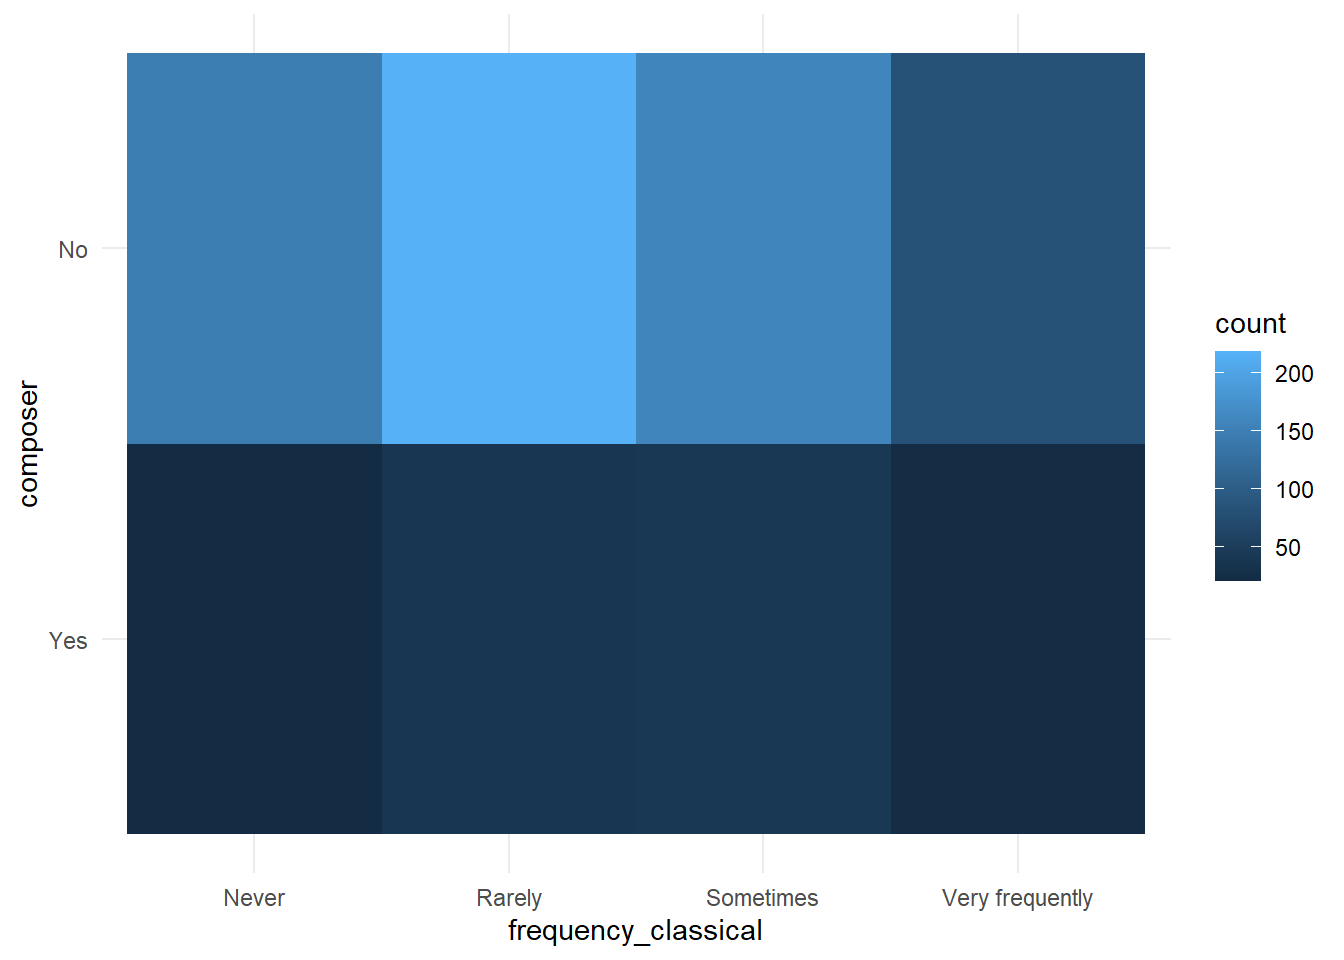
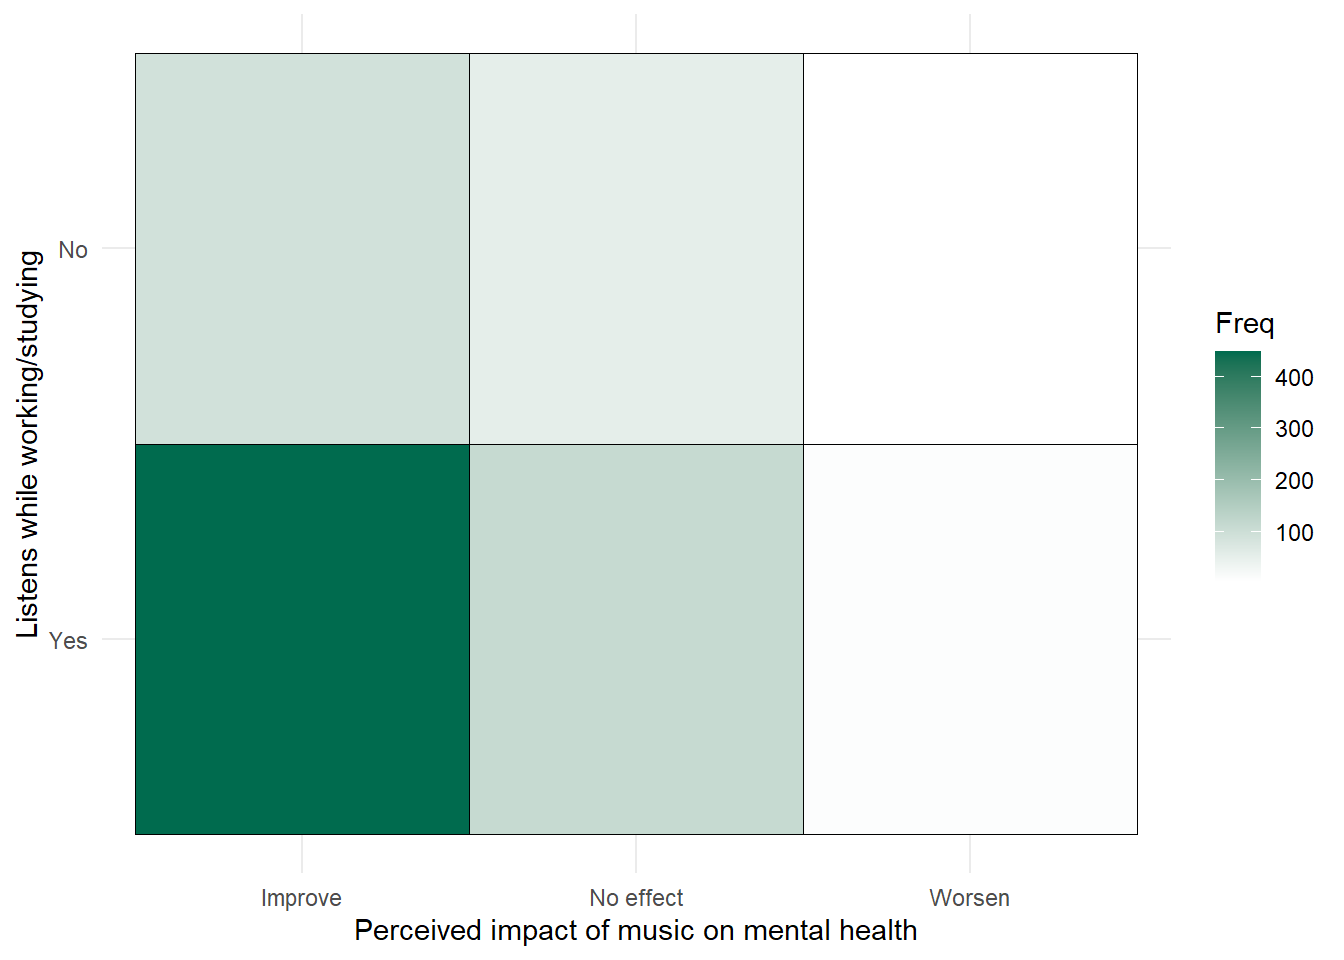
add heatmap

diff --git a/docs/Static_EDA.html b/docs/Static_EDA.html
@@ -354,7 +354,7 @@ permissions*                736   1 1.00e+00       1.00</code></pre>
 <h2 class="anchored" data-anchor-id="numeric-eda">Numeric EDA</h2>
 <section id="contingency-tables" class="level3">
 <h3 class="anchored" data-anchor-id="contingency-tables">Contingency Tables</h3>
-<p>Use tidy summary methods with results stored in tibbles. This will simplify reporting on the app.</p>
+<p>Use tidy summary methods with results stored in tibbles to simplify reporting on the app.</p>
 <p><strong>One-Way:</strong></p>
 <div class="cell">
 <div class="code-copy-outer-scaffold"><div class="sourceCode cell-code" id="cb15"><pre class="sourceCode r code-with-copy"><code class="sourceCode r"><span id="cb15-1"><a href="#cb15-1" aria-hidden="true" tabindex="-1"></a>tab_one <span class="ot">&lt;-</span> mxmh <span class="sc">|&gt;</span> </span>
@@ -422,18 +422,19 @@ permissions*                736   1 1.00e+00       1.00</code></pre>
 <p>Again, use tidy methods with tibble result storage to simplify the app. I chose to report mean, sd, min, median, max.</p>
 <div class="cell">
 <div class="code-copy-outer-scaffold"><div class="sourceCode cell-code" id="cb19"><pre class="sourceCode r code-with-copy"><code class="sourceCode r"><span id="cb19-1"><a href="#cb19-1" aria-hidden="true" tabindex="-1"></a>tab_sum <span class="ot">&lt;-</span> mxmh <span class="sc">|&gt;</span></span>
-<span id="cb19-2"><a href="#cb19-2" aria-hidden="true" tabindex="-1"></a>  <span class="fu">group_by</span>(frequency_classical) <span class="sc">|&gt;</span></span>
-<span id="cb19-3"><a href="#cb19-3" aria-hidden="true" tabindex="-1"></a>  <span class="fu">select</span>(frequency_classical, anxiety, age) <span class="sc">|&gt;</span></span>
-<span id="cb19-4"><a href="#cb19-4" aria-hidden="true" tabindex="-1"></a>  <span class="fu">summarize</span>(<span class="fu">across</span>(<span class="fu">where</span>(is.numeric),</span>
-<span id="cb19-5"><a href="#cb19-5" aria-hidden="true" tabindex="-1"></a>            <span class="fu">list</span>(<span class="st">"Mean"</span>   <span class="ot">=</span> <span class="er">~</span> <span class="fu">mean</span>(.x, <span class="at">na.rm =</span> <span class="cn">TRUE</span>),</span>
-<span id="cb19-6"><a href="#cb19-6" aria-hidden="true" tabindex="-1"></a>                 <span class="st">"SD"</span>     <span class="ot">=</span> <span class="er">~</span> <span class="fu">sd</span>(.x, <span class="at">na.rm =</span> <span class="cn">TRUE</span>),</span>
-<span id="cb19-7"><a href="#cb19-7" aria-hidden="true" tabindex="-1"></a>                 <span class="st">"Min"</span>    <span class="ot">=</span> <span class="er">~</span> <span class="fu">min</span>(.x, <span class="at">na.rm =</span> <span class="cn">TRUE</span>),</span>
-<span id="cb19-8"><a href="#cb19-8" aria-hidden="true" tabindex="-1"></a>                 <span class="st">"Median"</span> <span class="ot">=</span> <span class="er">~</span> <span class="fu">median</span>(.x, <span class="at">na.rm =</span> <span class="cn">TRUE</span>),</span>
-<span id="cb19-9"><a href="#cb19-9" aria-hidden="true" tabindex="-1"></a>                 <span class="st">"Max"</span>    <span class="ot">=</span> <span class="er">~</span> <span class="fu">max</span>(.x, <span class="at">na.rm =</span> <span class="cn">TRUE</span>)),</span>
-<span id="cb19-10"><a href="#cb19-10" aria-hidden="true" tabindex="-1"></a>            <span class="at">.names =</span> <span class="st">"{.fn}_{.col}"</span>)</span>
-<span id="cb19-11"><a href="#cb19-11" aria-hidden="true" tabindex="-1"></a>  )</span>
-<span id="cb19-12"><a href="#cb19-12" aria-hidden="true" tabindex="-1"></a></span>
-<span id="cb19-13"><a href="#cb19-13" aria-hidden="true" tabindex="-1"></a>tab_sum</span></code></pre></div><button title="Copy to Clipboard" class="code-copy-button"><i class="bi"></i></button></div>
+<span id="cb19-2"><a href="#cb19-2" aria-hidden="true" tabindex="-1"></a>  <span class="fu">drop_na</span>(frequency_classical) <span class="sc">|&gt;</span></span>
+<span id="cb19-3"><a href="#cb19-3" aria-hidden="true" tabindex="-1"></a>  <span class="fu">group_by</span>(frequency_classical) <span class="sc">|&gt;</span></span>
+<span id="cb19-4"><a href="#cb19-4" aria-hidden="true" tabindex="-1"></a>  <span class="fu">select</span>(frequency_classical, anxiety, age) <span class="sc">|&gt;</span></span>
+<span id="cb19-5"><a href="#cb19-5" aria-hidden="true" tabindex="-1"></a>  <span class="fu">summarize</span>(<span class="fu">across</span>(<span class="fu">where</span>(is.numeric),</span>
+<span id="cb19-6"><a href="#cb19-6" aria-hidden="true" tabindex="-1"></a>            <span class="fu">list</span>(<span class="st">"Mean"</span>   <span class="ot">=</span> <span class="er">~</span> <span class="fu">mean</span>(.x, <span class="at">na.rm =</span> <span class="cn">TRUE</span>),</span>
+<span id="cb19-7"><a href="#cb19-7" aria-hidden="true" tabindex="-1"></a>                 <span class="st">"SD"</span>     <span class="ot">=</span> <span class="er">~</span> <span class="fu">sd</span>(.x, <span class="at">na.rm =</span> <span class="cn">TRUE</span>),</span>
+<span id="cb19-8"><a href="#cb19-8" aria-hidden="true" tabindex="-1"></a>                 <span class="st">"Min"</span>    <span class="ot">=</span> <span class="er">~</span> <span class="fu">min</span>(.x, <span class="at">na.rm =</span> <span class="cn">TRUE</span>),</span>
+<span id="cb19-9"><a href="#cb19-9" aria-hidden="true" tabindex="-1"></a>                 <span class="st">"Median"</span> <span class="ot">=</span> <span class="er">~</span> <span class="fu">median</span>(.x, <span class="at">na.rm =</span> <span class="cn">TRUE</span>),</span>
+<span id="cb19-10"><a href="#cb19-10" aria-hidden="true" tabindex="-1"></a>                 <span class="st">"Max"</span>    <span class="ot">=</span> <span class="er">~</span> <span class="fu">max</span>(.x, <span class="at">na.rm =</span> <span class="cn">TRUE</span>)),</span>
+<span id="cb19-11"><a href="#cb19-11" aria-hidden="true" tabindex="-1"></a>            <span class="at">.names =</span> <span class="st">"{.fn}_{.col}"</span>)</span>
+<span id="cb19-12"><a href="#cb19-12" aria-hidden="true" tabindex="-1"></a>  )</span>
+<span id="cb19-13"><a href="#cb19-13" aria-hidden="true" tabindex="-1"></a></span>
+<span id="cb19-14"><a href="#cb19-14" aria-hidden="true" tabindex="-1"></a>tab_sum</span></code></pre></div><button title="Copy to Clipboard" class="code-copy-button"><i class="bi"></i></button></div>
 <div class="cell-output cell-output-stdout">
 <pre><code># A tibble: 4 × 11
   frequency_classical Mean_anxiety SD_anxiety Min_anxiety Median_anxiety
@@ -445,37 +446,20 @@ permissions*                736   1 1.00e+00       1.00</code></pre>
 # ℹ 6 more variables: Max_anxiety &lt;dbl&gt;, Mean_age &lt;dbl&gt;, SD_age &lt;dbl&gt;,
 #   Min_age &lt;dbl&gt;, Median_age &lt;dbl&gt;, Max_age &lt;dbl&gt;</code></pre>
 </div>
-<div class="code-copy-outer-scaffold"><div class="sourceCode cell-code" id="cb21"><pre class="sourceCode r code-with-copy"><code class="sourceCode r"><span id="cb21-1"><a href="#cb21-1" aria-hidden="true" tabindex="-1"></a><span class="co">#WIP!! psych option may be better for stacking</span></span>
-<span id="cb21-2"><a href="#cb21-2" aria-hidden="true" tabindex="-1"></a><span class="co">#fyi, describe.by creates to a list with 1 df for each x </span></span>
-<span id="cb21-3"><a href="#cb21-3" aria-hidden="true" tabindex="-1"></a>mxmh <span class="sc">|&gt;</span></span>
-<span id="cb21-4"><a href="#cb21-4" aria-hidden="true" tabindex="-1"></a>  <span class="fu">select</span>(anxiety, age) <span class="sc">|&gt;</span></span>
-<span id="cb21-5"><a href="#cb21-5" aria-hidden="true" tabindex="-1"></a>  psych<span class="sc">::</span><span class="fu">describe</span>() <span class="sc">|&gt;</span></span>
-<span id="cb21-6"><a href="#cb21-6" aria-hidden="true" tabindex="-1"></a>  <span class="fu">select</span>(vars, n, mean, sd, min, median, max )</span></code></pre></div><button title="Copy to Clipboard" class="code-copy-button"><i class="bi"></i></button></div>
-<div class="cell-output cell-output-stdout">
-<pre><code>        vars   n  mean    sd min median max
-anxiety    1 736  5.84  2.79   0      6  10
-age        2 735 25.21 12.05  10     21  89</code></pre>
-</div>
 </div>
 </section>
 </section>
 <section id="visual-eda" class="level2">
 <h2 class="anchored" data-anchor-id="visual-eda">Visual EDA</h2>
-<section id="histograms" class="level3">
-<h3 class="anchored" data-anchor-id="histograms">Histograms</h3>
-<p>Takes 1 numeric variables, accepts 1 categorical variable as facet.</p>
+<section id="density-plots" class="level3">
+<h3 class="anchored" data-anchor-id="density-plots">Density Plots</h3>
+<p>Takes 1 numeric variables, and accepts 1 categorical variable as facet.</p>
 <div class="cell">
-<div class="code-copy-outer-scaffold"><div class="sourceCode cell-code" id="cb23"><pre class="sourceCode r code-with-copy"><code class="sourceCode r"><span id="cb23-1"><a href="#cb23-1" aria-hidden="true" tabindex="-1"></a><span class="fu">ggplot</span>(mxmh, <span class="fu">aes</span>(<span class="at">x=</span>age, <span class="at">fill=</span>frequency_classical)) <span class="sc">+</span></span>
-<span id="cb23-2"><a href="#cb23-2" aria-hidden="true" tabindex="-1"></a>  <span class="fu">geom_histogram</span>() <span class="sc">+</span></span>
-<span id="cb23-3"><a href="#cb23-3" aria-hidden="true" tabindex="-1"></a>  <span class="fu">facet_wrap</span>(<span class="sc">~</span> frequency_classical) <span class="sc">+</span></span>
-<span id="cb23-4"><a href="#cb23-4" aria-hidden="true" tabindex="-1"></a>  <span class="fu">theme_minimal</span>()</span></code></pre></div><button title="Copy to Clipboard" class="code-copy-button"><i class="bi"></i></button></div>
-<div class="cell-output cell-output-stderr">
-<pre><code>`stat_bin()` using `bins = 30`. Pick better value `binwidth`.</code></pre>
-</div>
-<div class="cell-output cell-output-stderr">
-<pre><code>Warning: Removed 1 row containing non-finite outside the scale range
-(`stat_bin()`).</code></pre>
-</div>
+<div class="code-copy-outer-scaffold"><div class="sourceCode cell-code" id="cb21"><pre class="sourceCode r code-with-copy"><code class="sourceCode r"><span id="cb21-1"><a href="#cb21-1" aria-hidden="true" tabindex="-1"></a><span class="fu">ggplot</span>(mxmh <span class="sc">|&gt;</span> <span class="fu">drop_na</span>(age, frequency_classical), </span>
+<span id="cb21-2"><a href="#cb21-2" aria-hidden="true" tabindex="-1"></a>       <span class="fu">aes</span>(<span class="at">x=</span>age, <span class="at">fill=</span>frequency_classical)) <span class="sc">+</span></span>
+<span id="cb21-3"><a href="#cb21-3" aria-hidden="true" tabindex="-1"></a>  <span class="fu">geom_density</span>() <span class="sc">+</span></span>
+<span id="cb21-4"><a href="#cb21-4" aria-hidden="true" tabindex="-1"></a>  <span class="fu">facet_wrap</span>(<span class="sc">~</span> frequency_classical) <span class="sc">+</span></span>
+<span id="cb21-5"><a href="#cb21-5" aria-hidden="true" tabindex="-1"></a>  <span class="fu">theme_minimal</span>()</span></code></pre></div><button title="Copy to Clipboard" class="code-copy-button"><i class="bi"></i></button></div>
 <div class="cell-output-display">
 <div>
 <figure class="figure">
@@ -489,9 +473,9 @@ age        2 735 25.21 12.05  10     21  89</code></pre>
 <h3 class="anchored" data-anchor-id="boxplots">Boxplots</h3>
 <p>Takes 1 numeric variable and 1 categorical variable as x-axis grouping.</p>
 <div class="cell">
-<div class="code-copy-outer-scaffold"><div class="sourceCode cell-code" id="cb26"><pre class="sourceCode r code-with-copy"><code class="sourceCode r"><span id="cb26-1"><a href="#cb26-1" aria-hidden="true" tabindex="-1"></a><span class="fu">ggplot</span>(mxmh, <span class="fu">aes</span>(<span class="at">x=</span>frequency_classical, <span class="at">y=</span>age, <span class="at">fill=</span>frequency_classical)) <span class="sc">+</span></span>
-<span id="cb26-2"><a href="#cb26-2" aria-hidden="true" tabindex="-1"></a>  <span class="fu">geom_boxplot</span>() <span class="sc">+</span> </span>
-<span id="cb26-3"><a href="#cb26-3" aria-hidden="true" tabindex="-1"></a>  <span class="fu">theme_minimal</span>()</span></code></pre></div><button title="Copy to Clipboard" class="code-copy-button"><i class="bi"></i></button></div>
+<div class="code-copy-outer-scaffold"><div class="sourceCode cell-code" id="cb22"><pre class="sourceCode r code-with-copy"><code class="sourceCode r"><span id="cb22-1"><a href="#cb22-1" aria-hidden="true" tabindex="-1"></a><span class="fu">ggplot</span>(mxmh, <span class="fu">aes</span>(<span class="at">x=</span>frequency_classical, <span class="at">y=</span>age, <span class="at">fill=</span>frequency_classical)) <span class="sc">+</span></span>
+<span id="cb22-2"><a href="#cb22-2" aria-hidden="true" tabindex="-1"></a>  <span class="fu">geom_boxplot</span>() <span class="sc">+</span> </span>
+<span id="cb22-3"><a href="#cb22-3" aria-hidden="true" tabindex="-1"></a>  <span class="fu">theme_minimal</span>()</span></code></pre></div><button title="Copy to Clipboard" class="code-copy-button"><i class="bi"></i></button></div>
 <div class="cell-output cell-output-stderr">
 <pre><code>Warning: Removed 1 row containing non-finite outside the scale range
 (`stat_boxplot()`).</code></pre>
@@ -504,19 +488,29 @@ age        2 735 25.21 12.05  10     21  89</code></pre>
 </div>
 </div>
 </div>
-<p><strong>Scatterplot</strong></p>
-<p>WIP!! - find a different plot better suited for the data (e.g., means/SD plot)</p>
-<div class="cell">
-<div class="code-copy-outer-scaffold"><div class="sourceCode cell-code" id="cb28"><pre class="sourceCode r code-with-copy"><code class="sourceCode r"><span id="cb28-1"><a href="#cb28-1" aria-hidden="true" tabindex="-1"></a><span class="co">#ggplot(mxmh, aes(x=anxiety, y=ocd, group=composer)) +</span></span>
-<span id="cb28-2"><a href="#cb28-2" aria-hidden="true" tabindex="-1"></a><span class="co">#  geom_point()</span></span></code></pre></div><button title="Copy to Clipboard" class="code-copy-button"><i class="bi"></i></button></div>
-</div>
 </section>
 <section id="bar-charts" class="level3">
 <h3 class="anchored" data-anchor-id="bar-charts">Bar Charts</h3>
-<p>Frequency bar chart for 1 categorical variable + 1 grouping categorical variables.</p>
+<p>Frequency bar charts for 1-2 categorical variables.</p>
+<p>If a second categorical variable is provided, that variable serves as a grouping effect for side-by-side bar chart layout.</p>
+<p><strong>One-way:</strong></p>
 <div class="cell">
-<div class="code-copy-outer-scaffold"><div class="sourceCode cell-code" id="cb29"><pre class="sourceCode r code-with-copy"><code class="sourceCode r"><span id="cb29-1"><a href="#cb29-1" aria-hidden="true" tabindex="-1"></a><span class="fu">ggplot</span>(mxmh, <span class="fu">aes</span>(<span class="at">x=</span>frequency_classical)) <span class="sc">+</span></span>
-<span id="cb29-2"><a href="#cb29-2" aria-hidden="true" tabindex="-1"></a>  <span class="fu">geom_bar</span>(<span class="fu">aes</span>(<span class="at">fill=</span>composer), <span class="at">position=</span><span class="st">"dodge"</span>)</span></code></pre></div><button title="Copy to Clipboard" class="code-copy-button"><i class="bi"></i></button></div>
+<div class="code-copy-outer-scaffold"><div class="sourceCode cell-code" id="cb24"><pre class="sourceCode r code-with-copy"><code class="sourceCode r"><span id="cb24-1"><a href="#cb24-1" aria-hidden="true" tabindex="-1"></a><span class="fu">ggplot</span>(mxmh, <span class="fu">aes</span>(<span class="at">x=</span>frequency_classical)) <span class="sc">+</span></span>
+<span id="cb24-2"><a href="#cb24-2" aria-hidden="true" tabindex="-1"></a>  <span class="fu">geom_bar</span>() <span class="sc">+</span> </span>
+<span id="cb24-3"><a href="#cb24-3" aria-hidden="true" tabindex="-1"></a>  <span class="fu">theme_minimal</span>()</span></code></pre></div><button title="Copy to Clipboard" class="code-copy-button"><i class="bi"></i></button></div>
+<div class="cell-output-display">
+<div>
+<figure class="figure">
+<p><img src="Static_EDA_files/figure-html/unnamed-chunk-12-1.png" class="img-fluid figure-img" width="672"></p>
+</figure>
+</div>
+</div>
+</div>
+<p><strong>Two-way:</strong></p>
+<div class="cell">
+<div class="code-copy-outer-scaffold"><div class="sourceCode cell-code" id="cb25"><pre class="sourceCode r code-with-copy"><code class="sourceCode r"><span id="cb25-1"><a href="#cb25-1" aria-hidden="true" tabindex="-1"></a><span class="fu">ggplot</span>(mxmh, <span class="fu">aes</span>(<span class="at">x=</span>frequency_classical)) <span class="sc">+</span></span>
+<span id="cb25-2"><a href="#cb25-2" aria-hidden="true" tabindex="-1"></a>  <span class="fu">geom_bar</span>(<span class="fu">aes</span>(<span class="at">fill=</span>composer), <span class="at">position=</span><span class="st">"dodge"</span>)<span class="sc">+</span> </span>
+<span id="cb25-3"><a href="#cb25-3" aria-hidden="true" tabindex="-1"></a>  <span class="fu">theme_minimal</span>()</span></code></pre></div><button title="Copy to Clipboard" class="code-copy-button"><i class="bi"></i></button></div>
 <div class="cell-output-display">
 <div>
 <figure class="figure">
@@ -528,32 +522,19 @@ age        2 735 25.21 12.05  10     21  89</code></pre>
 </section>
 <section id="heatmap" class="level3">
 <h3 class="anchored" data-anchor-id="heatmap">Heatmap</h3>
-<p>Frequency density for a two-variable crosstab (use tab_two results).</p>
-<p>WIP!! - %s probably better, also integrate with tab_two</p>
+<p>A visualization of frequency density for a contingency table. Plotted on a monochromatic scale: lighter shading for lower frequency, darker shading for higher frequency.</p>
 <div class="cell">
-<div class="code-copy-outer-scaffold"><div class="sourceCode cell-code" id="cb30"><pre class="sourceCode r code-with-copy"><code class="sourceCode r"><span id="cb30-1"><a href="#cb30-1" aria-hidden="true" tabindex="-1"></a><span class="do">##grab this from tab_two before pivot!!</span></span>
-<span id="cb30-2"><a href="#cb30-2" aria-hidden="true" tabindex="-1"></a>for_tile <span class="ot">&lt;-</span> mxmh <span class="sc">|&gt;</span> </span>
-<span id="cb30-3"><a href="#cb30-3" aria-hidden="true" tabindex="-1"></a>  <span class="fu">drop_na</span>(frequency_classical, composer) <span class="sc">|&gt;</span></span>
-<span id="cb30-4"><a href="#cb30-4" aria-hidden="true" tabindex="-1"></a>  <span class="fu">group_by</span>(frequency_classical, composer) <span class="sc">|&gt;</span></span>
-<span id="cb30-5"><a href="#cb30-5" aria-hidden="true" tabindex="-1"></a>  <span class="fu">summarize</span>(<span class="at">count=</span><span class="fu">n</span>(), <span class="at">.groups =</span> <span class="st">"drop"</span>)</span>
-<span id="cb30-6"><a href="#cb30-6" aria-hidden="true" tabindex="-1"></a></span>
-<span id="cb30-7"><a href="#cb30-7" aria-hidden="true" tabindex="-1"></a>for_tile</span></code></pre></div><button title="Copy to Clipboard" class="code-copy-button"><i class="bi"></i></button></div>
-<div class="cell-output cell-output-stdout">
-<pre><code># A tibble: 8 × 3
-  frequency_classical composer count
-  &lt;ord&gt;               &lt;fct&gt;    &lt;int&gt;
-1 Never               Yes         21
-2 Never               No         148
-3 Rarely              Yes         39
-4 Rarely              No         219
-5 Sometimes           Yes         42
-6 Sometimes           No         158
-7 Very frequently     Yes         24
-8 Very frequently     No          84</code></pre>
-</div>
-<div class="code-copy-outer-scaffold"><div class="sourceCode cell-code" id="cb32"><pre class="sourceCode r code-with-copy"><code class="sourceCode r"><span id="cb32-1"><a href="#cb32-1" aria-hidden="true" tabindex="-1"></a><span class="fu">ggplot</span>(for_tile, <span class="fu">aes</span>(<span class="at">x=</span>frequency_classical, <span class="at">y=</span>composer)) <span class="sc">+</span></span>
-<span id="cb32-2"><a href="#cb32-2" aria-hidden="true" tabindex="-1"></a>  <span class="fu">geom_tile</span>(<span class="fu">aes</span>(<span class="at">fill=</span>count)) <span class="sc">+</span></span>
-<span id="cb32-3"><a href="#cb32-3" aria-hidden="true" tabindex="-1"></a>  <span class="fu">theme_minimal</span>()</span></code></pre></div><button title="Copy to Clipboard" class="code-copy-button"><i class="bi"></i></button></div>
+<div class="code-copy-outer-scaffold"><div class="sourceCode cell-code" id="cb26"><pre class="sourceCode r code-with-copy"><code class="sourceCode r"><span id="cb26-1"><a href="#cb26-1" aria-hidden="true" tabindex="-1"></a><span class="do">##grab this from tab_two before pivot!!</span></span>
+<span id="cb26-2"><a href="#cb26-2" aria-hidden="true" tabindex="-1"></a>tab_two <span class="ot">&lt;-</span> <span class="fu">as.data.frame</span>(<span class="fu">table</span>(mxmh<span class="sc">$</span>music_effects, mxmh<span class="sc">$</span>while_working))</span>
+<span id="cb26-3"><a href="#cb26-3" aria-hidden="true" tabindex="-1"></a></span>
+<span id="cb26-4"><a href="#cb26-4" aria-hidden="true" tabindex="-1"></a><span class="fu">ggplot</span>(<span class="fu">as.data.frame</span>(tab_two), <span class="fu">aes</span>(<span class="at">x =</span> Var1, <span class="at">y=</span>Var2, <span class="at">fill=</span>Freq)) <span class="sc">+</span></span>
+<span id="cb26-5"><a href="#cb26-5" aria-hidden="true" tabindex="-1"></a>  <span class="fu">geom_tile</span>(<span class="at">color=</span><span class="st">"black"</span>) <span class="sc">+</span></span>
+<span id="cb26-6"><a href="#cb26-6" aria-hidden="true" tabindex="-1"></a>  <span class="co">#force an extreme monochrome scale</span></span>
+<span id="cb26-7"><a href="#cb26-7" aria-hidden="true" tabindex="-1"></a>  <span class="fu">scale_fill_gradient</span>(<span class="at">low=</span><span class="st">"white"</span>, <span class="at">high=</span><span class="st">"#006b4e"</span>)  <span class="sc">+</span></span>
+<span id="cb26-8"><a href="#cb26-8" aria-hidden="true" tabindex="-1"></a>  <span class="co">#use helpers to apply variable names:</span></span>
+<span id="cb26-9"><a href="#cb26-9" aria-hidden="true" tabindex="-1"></a>  <span class="fu">labs</span>(<span class="at">x =</span> <span class="fu">names</span>(vars_all[<span class="fu">which</span>(vars_all<span class="sc">==</span><span class="st">"music_effects"</span>)]),</span>
+<span id="cb26-10"><a href="#cb26-10" aria-hidden="true" tabindex="-1"></a>       <span class="at">y =</span> <span class="fu">names</span>(vars_all[<span class="fu">which</span>(vars_all<span class="sc">==</span><span class="st">"while_working"</span>)])) <span class="sc">+</span></span>
+<span id="cb26-11"><a href="#cb26-11" aria-hidden="true" tabindex="-1"></a>  <span class="fu">theme_minimal</span>()</span></code></pre></div><button title="Copy to Clipboard" class="code-copy-button"><i class="bi"></i></button></div>
 <div class="cell-output-display">
 <div>
 <figure class="figure">
